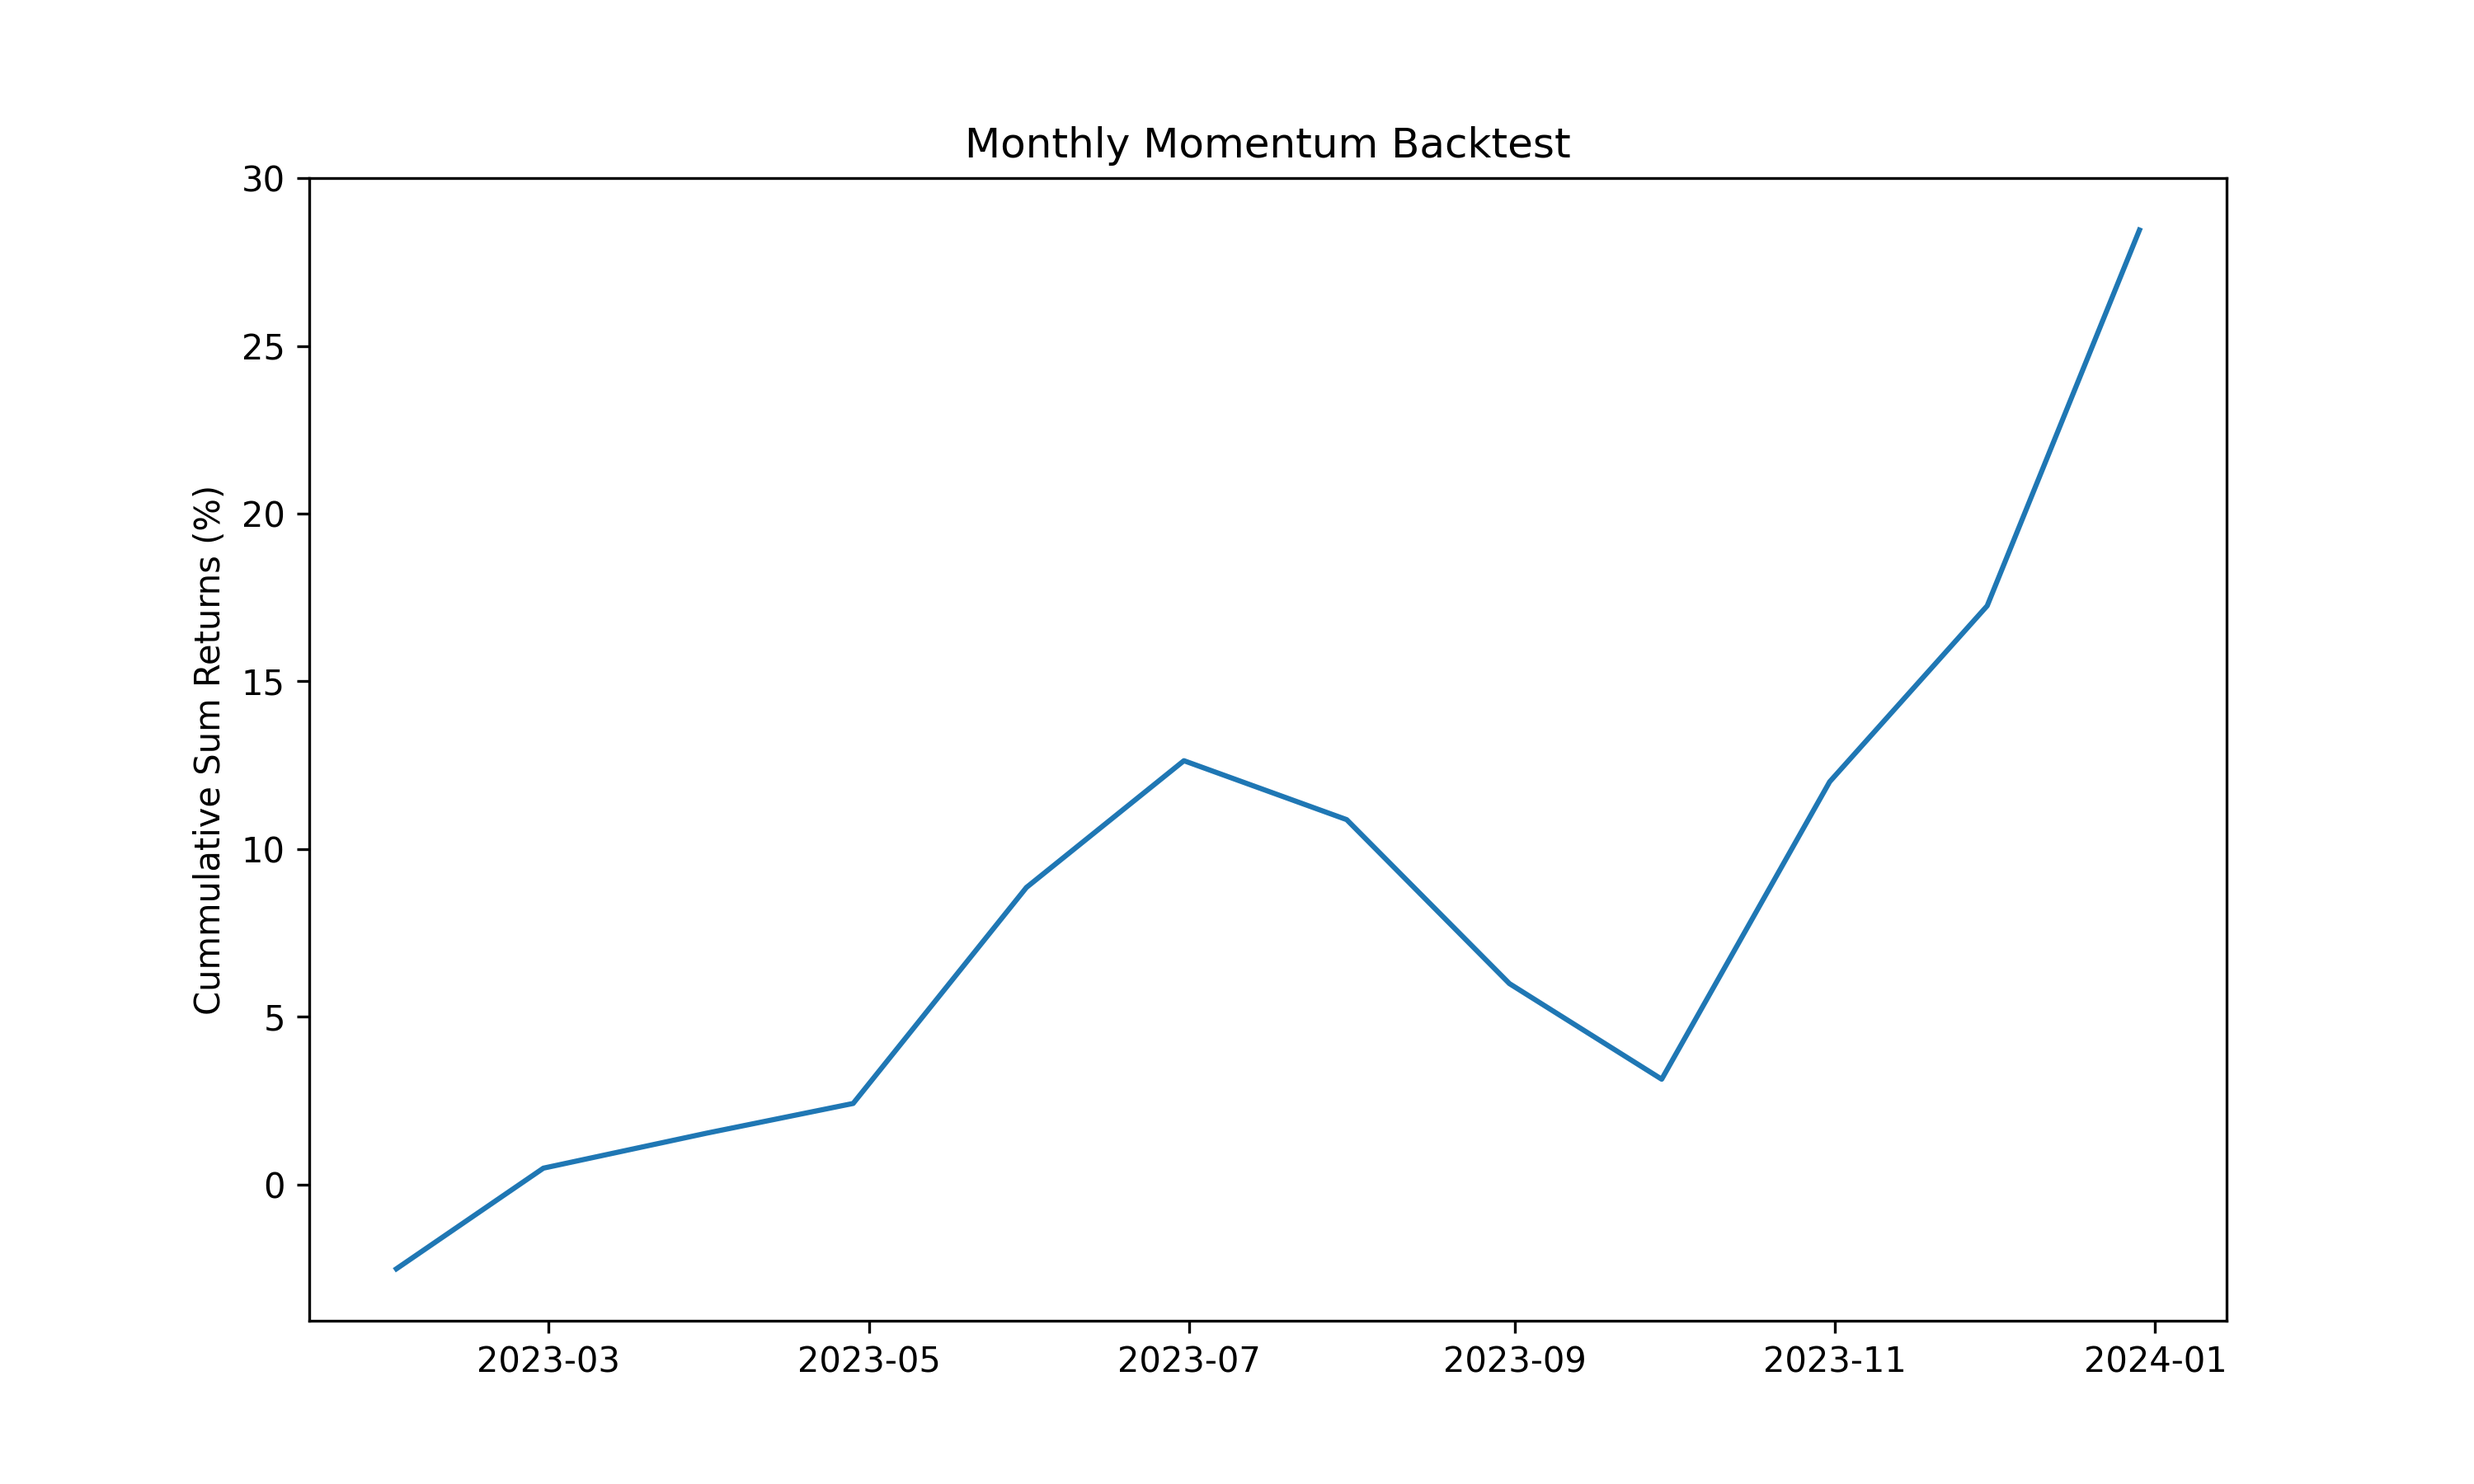
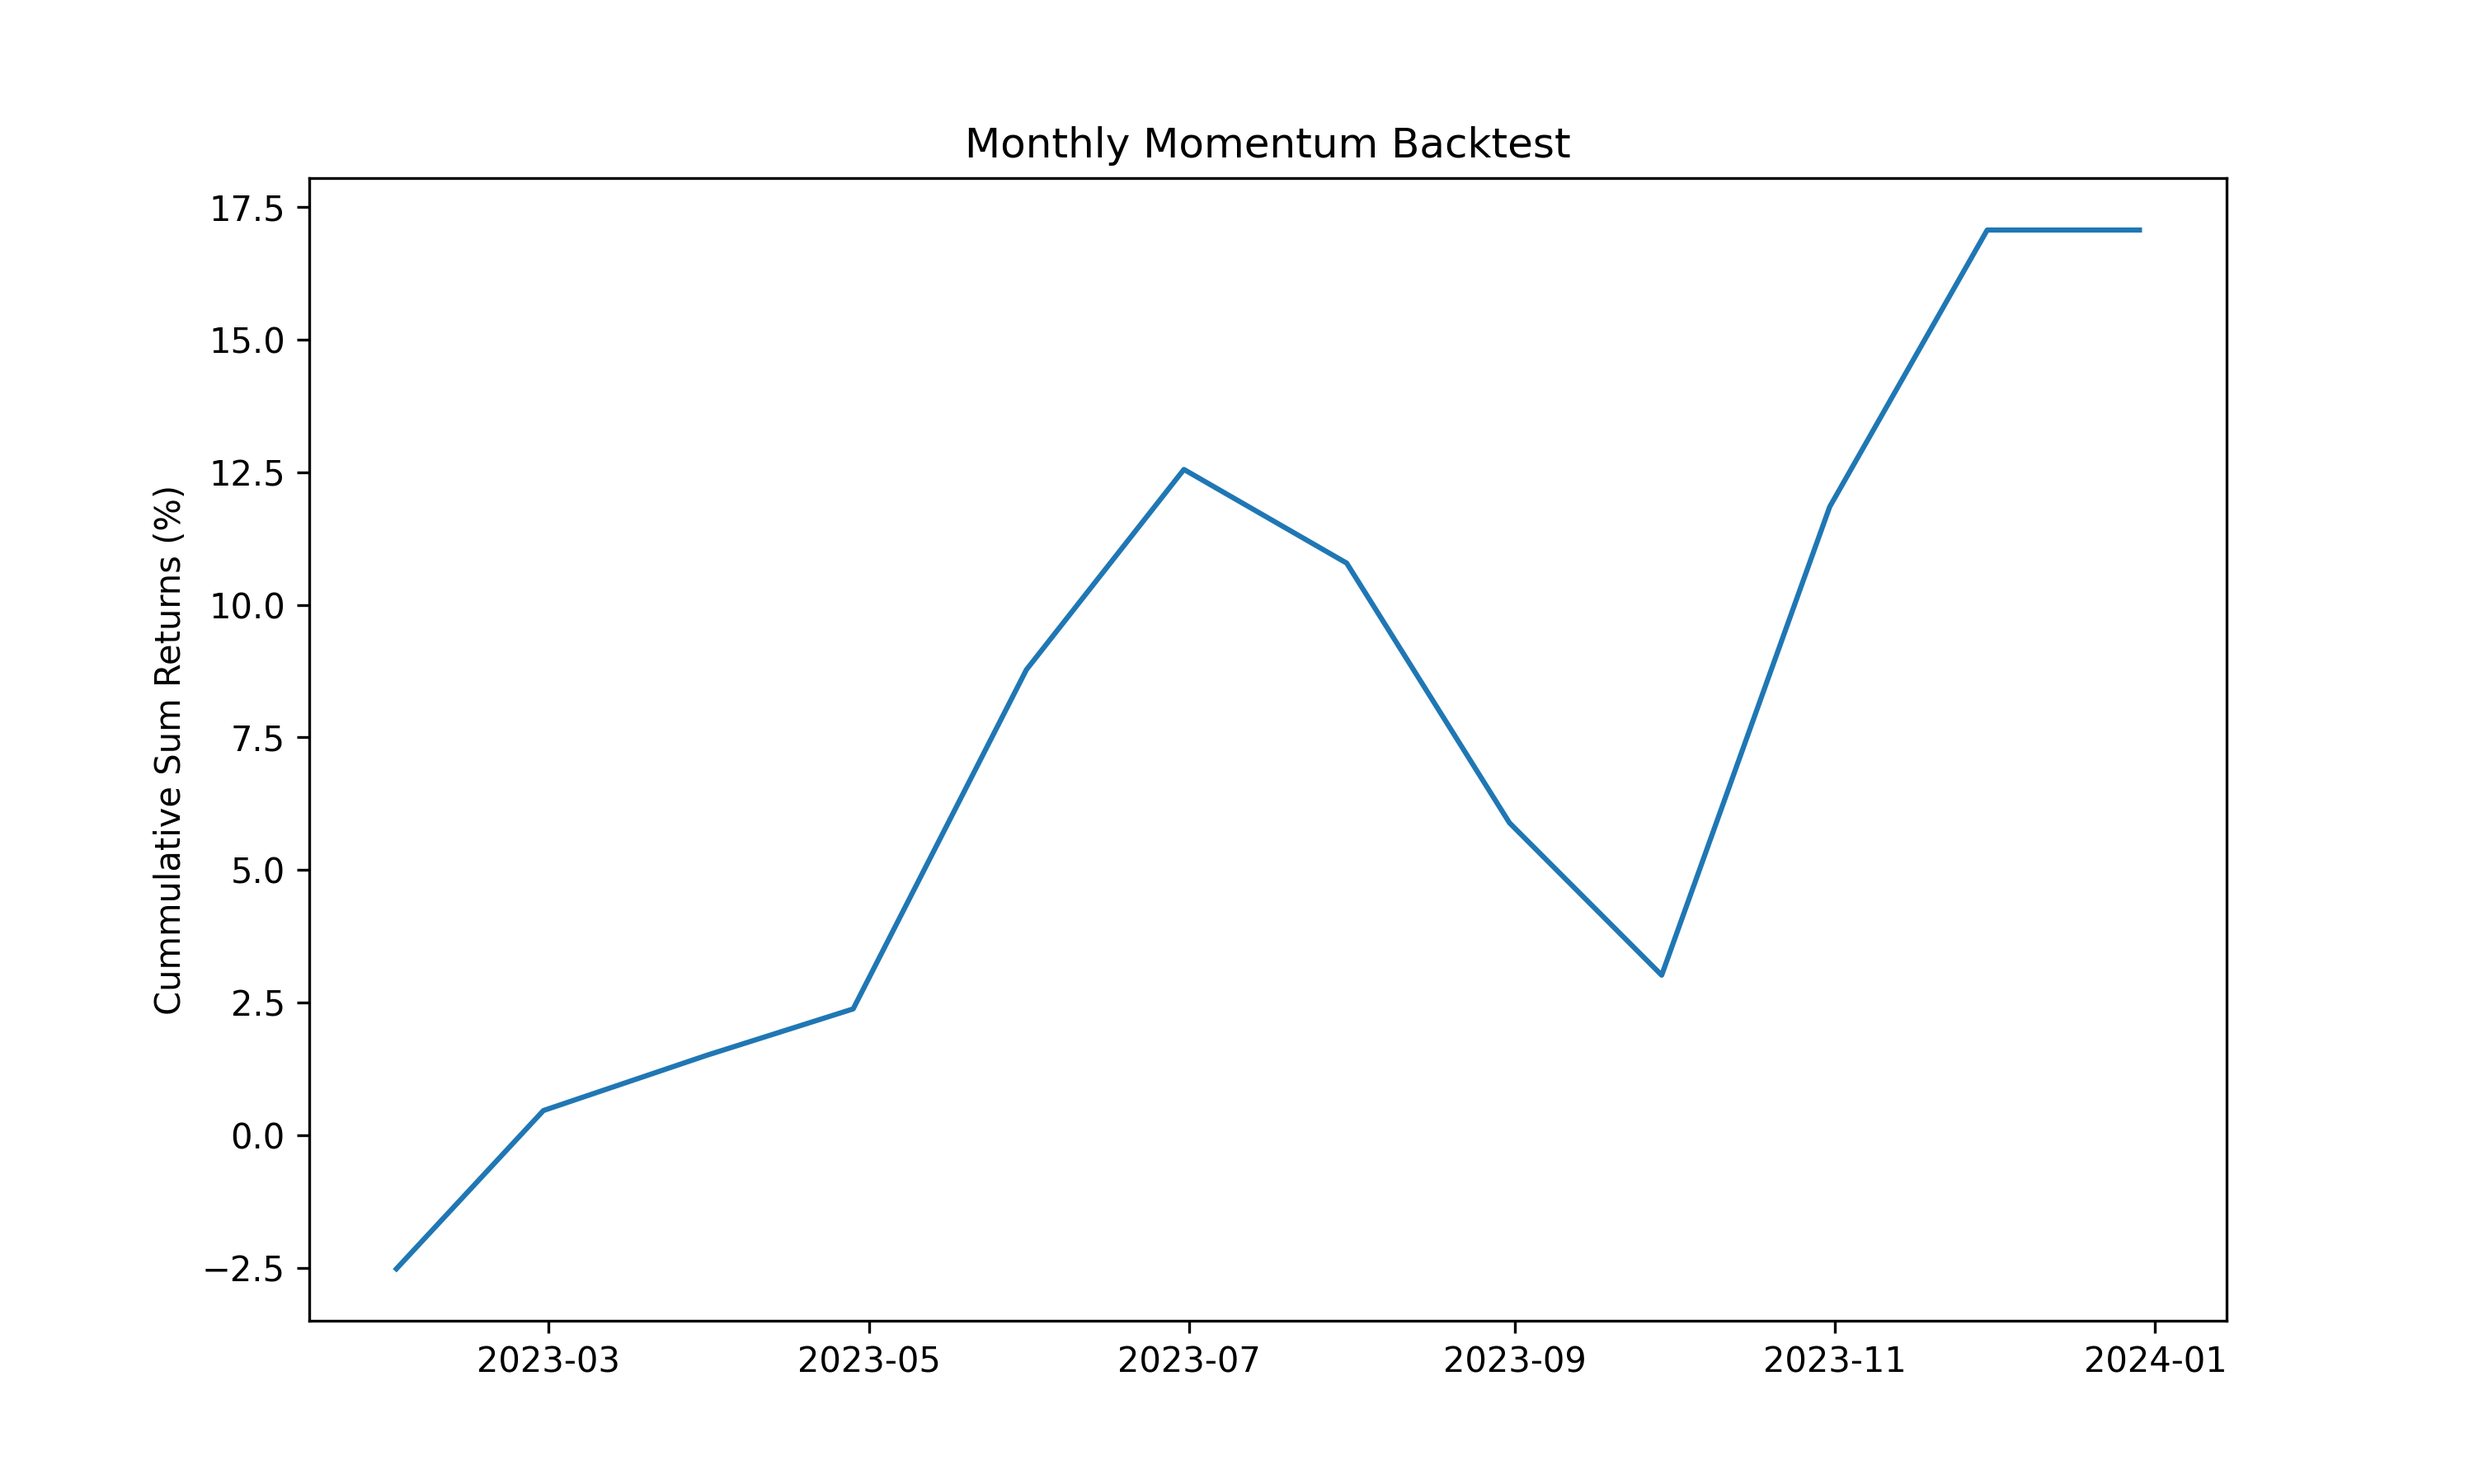
Fixed backtest example plot.

diff --git a/research/backtest_example_plot.py b/research/backtest_example_plot.py
@@ -1,4 +1,5 @@
 import matplotlib.pyplot as plt
+import numpy as np
 import polars as pl
 import seaborn as sns
 
@@ -6,22 +7,31 @@ import seaborn as sns
 pnl = pl.read_parquet("research/backtest_example.parquet")
 
 # Aggregate to portfolio level
-daily_returns = (
-    pnl.with_columns((pl.col("weight") * pl.col("fwd_ret")).alias("contribution"))
+portfolio_returns = (
+    pnl.with_columns((pl.col("weight") * pl.col("fwd_ret").fill_null(0)).alias("contribution"))
     .group_by("date")
-    .agg(pl.col("contribution").sum().alias("portfolio_ret"))
+    .agg(
+        pl.col("contribution").sum().alias("portfolio_ret"),
+        pl.col("barrid").count().alias("n_assets"),
+    )
     .sort("date")
     .with_columns((pl.col("portfolio_ret") / 100).log1p().cum_sum().alias("portfolio_cumret"))
     .with_columns(pl.col("portfolio_cumret") * 100)  # put into percent space
 )
 
+# Sharpe
+portfolio_ret = portfolio_returns["portfolio_ret"].mean()
+portfolio_vol = portfolio_returns["portfolio_ret"].std()
+portfolio_sharpe = (portfolio_ret / portfolio_vol) * np.sqrt(12)
+print(f"Sharpe: {portfolio_sharpe:.4f}")
+
 # Table
 print("-" * 20 + " Portfolio Returns " + "-" * 20)
-print(daily_returns)
+print(portfolio_returns)
 
 # Chart
 plt.figure(figsize=(10, 6))
-sns.lineplot(data=daily_returns, x="date", y="portfolio_cumret")
+sns.lineplot(data=portfolio_returns, x="date", y="portfolio_cumret")
 plt.title("Monthly Momentum Backtest")
 plt.xlabel(None)
 plt.ylabel("Cummulative Sum Returns (%)")
